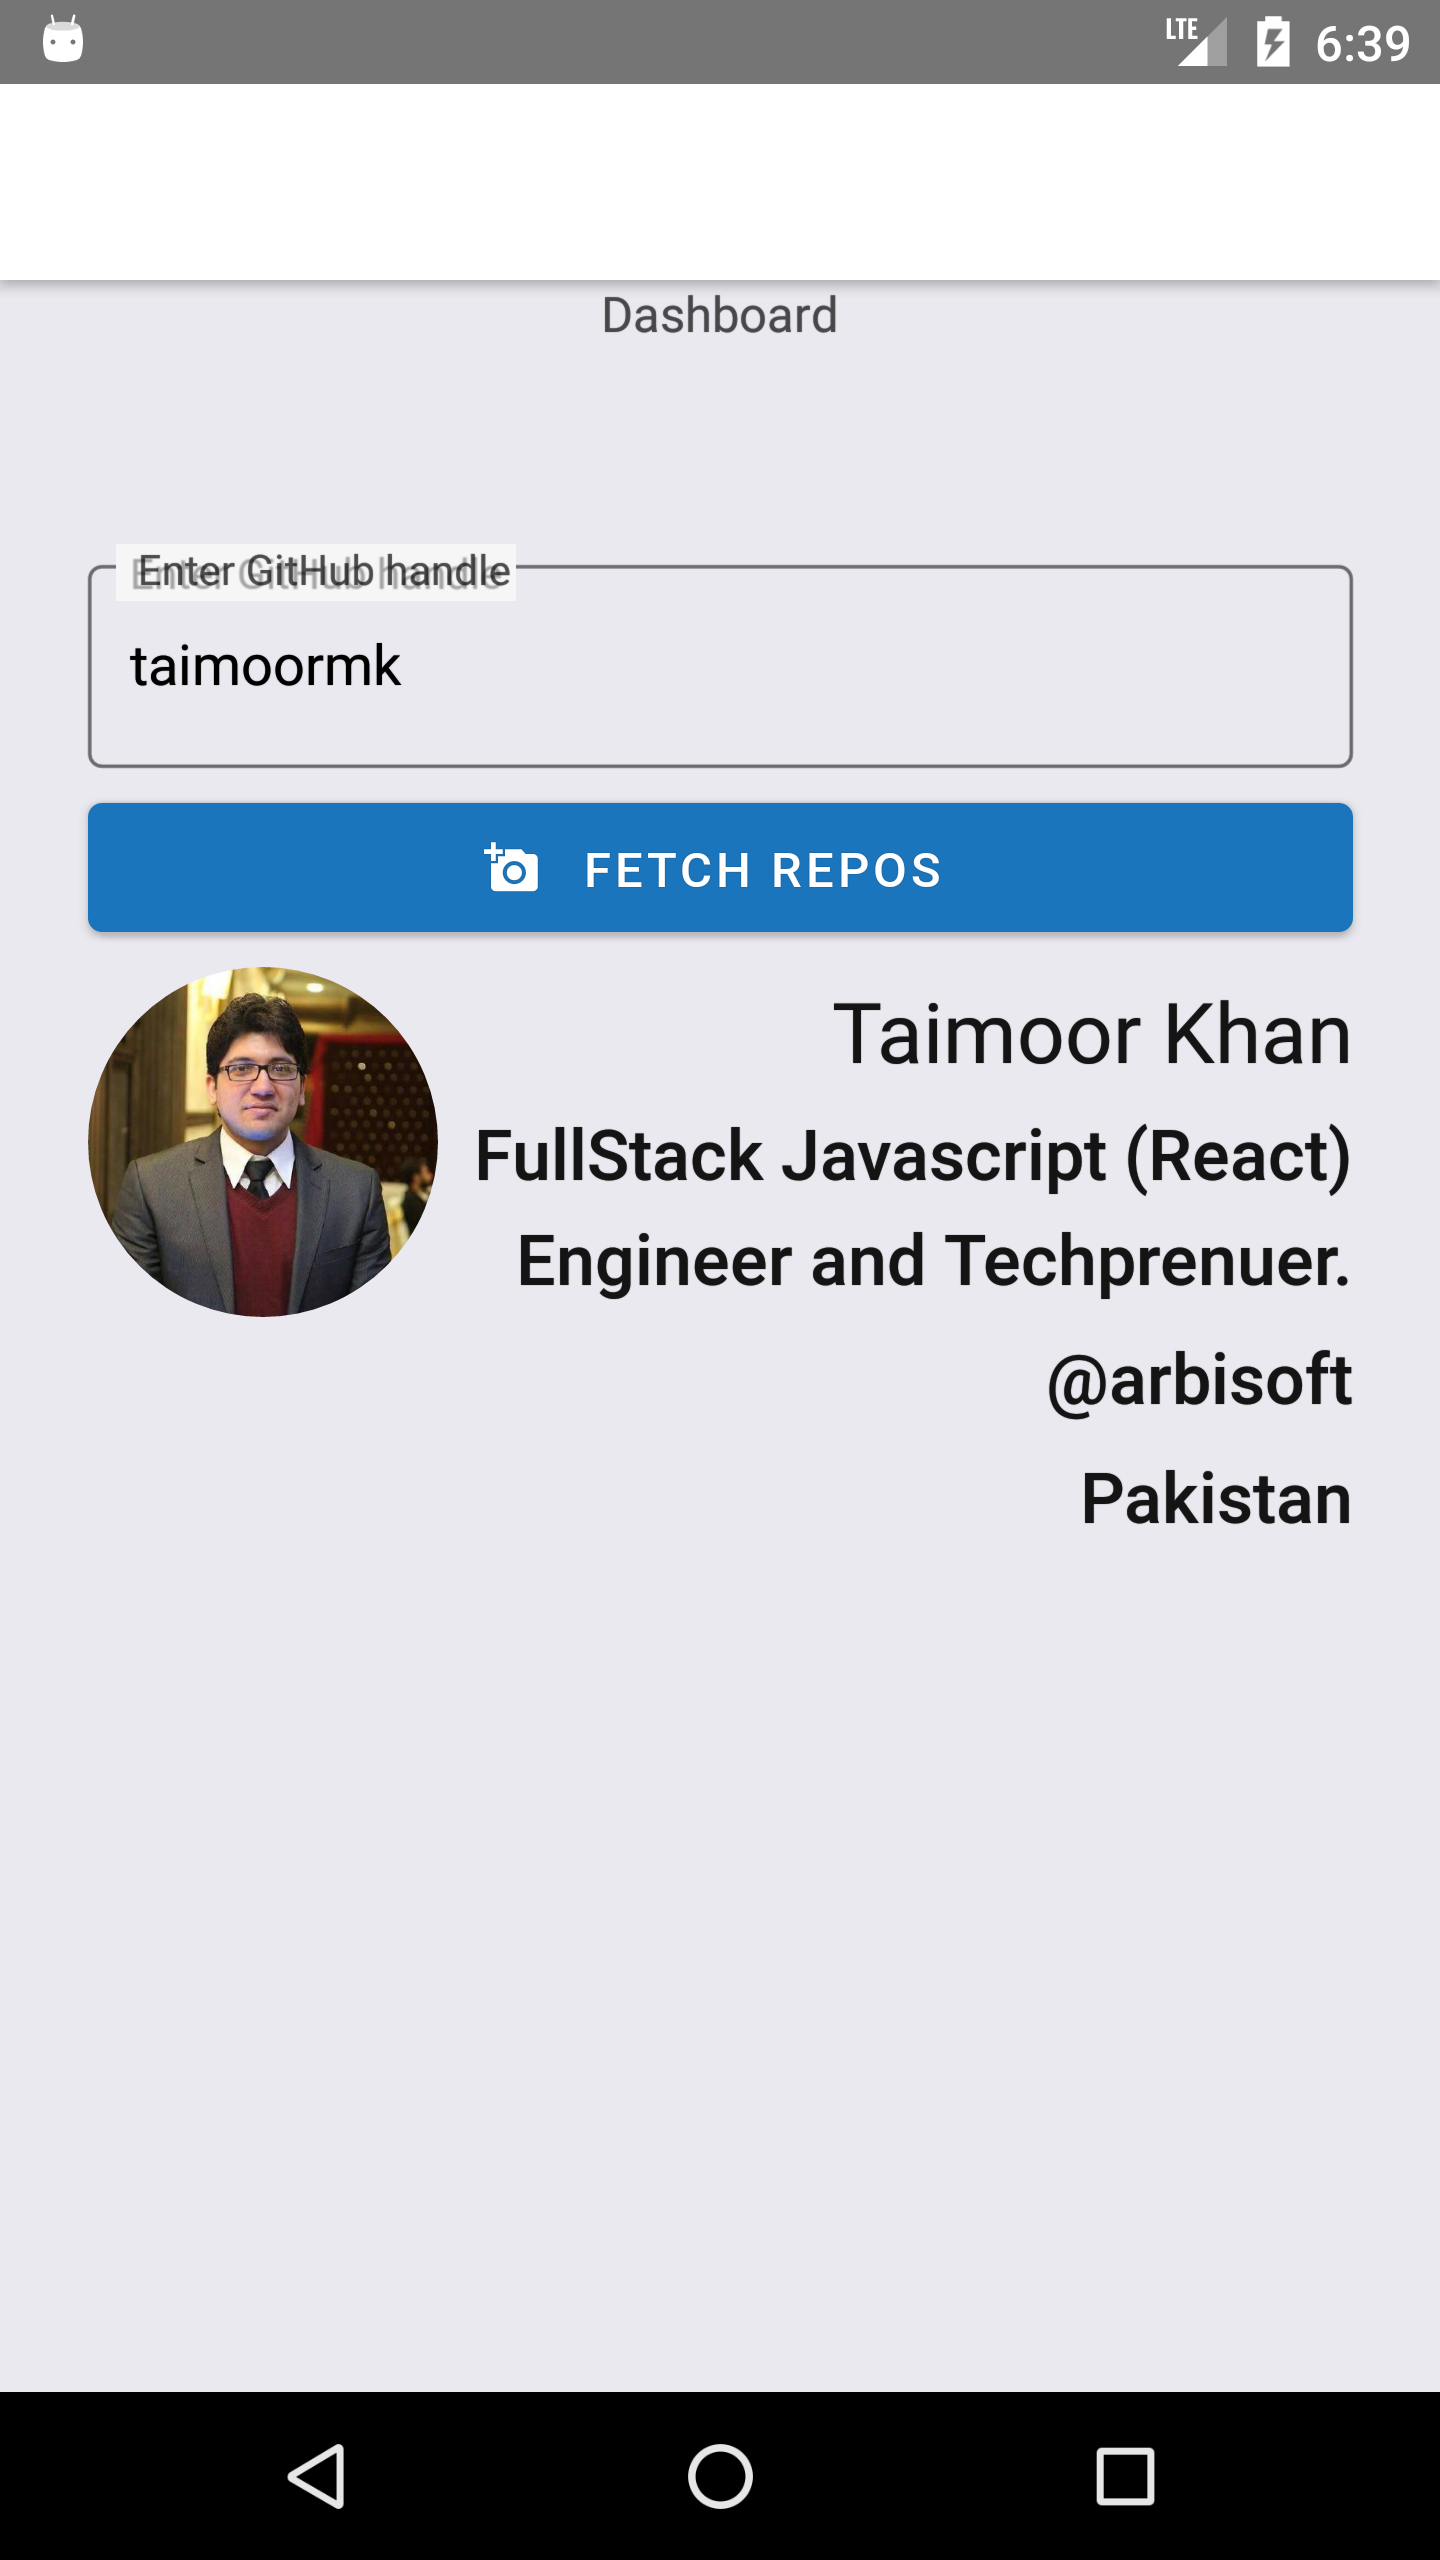
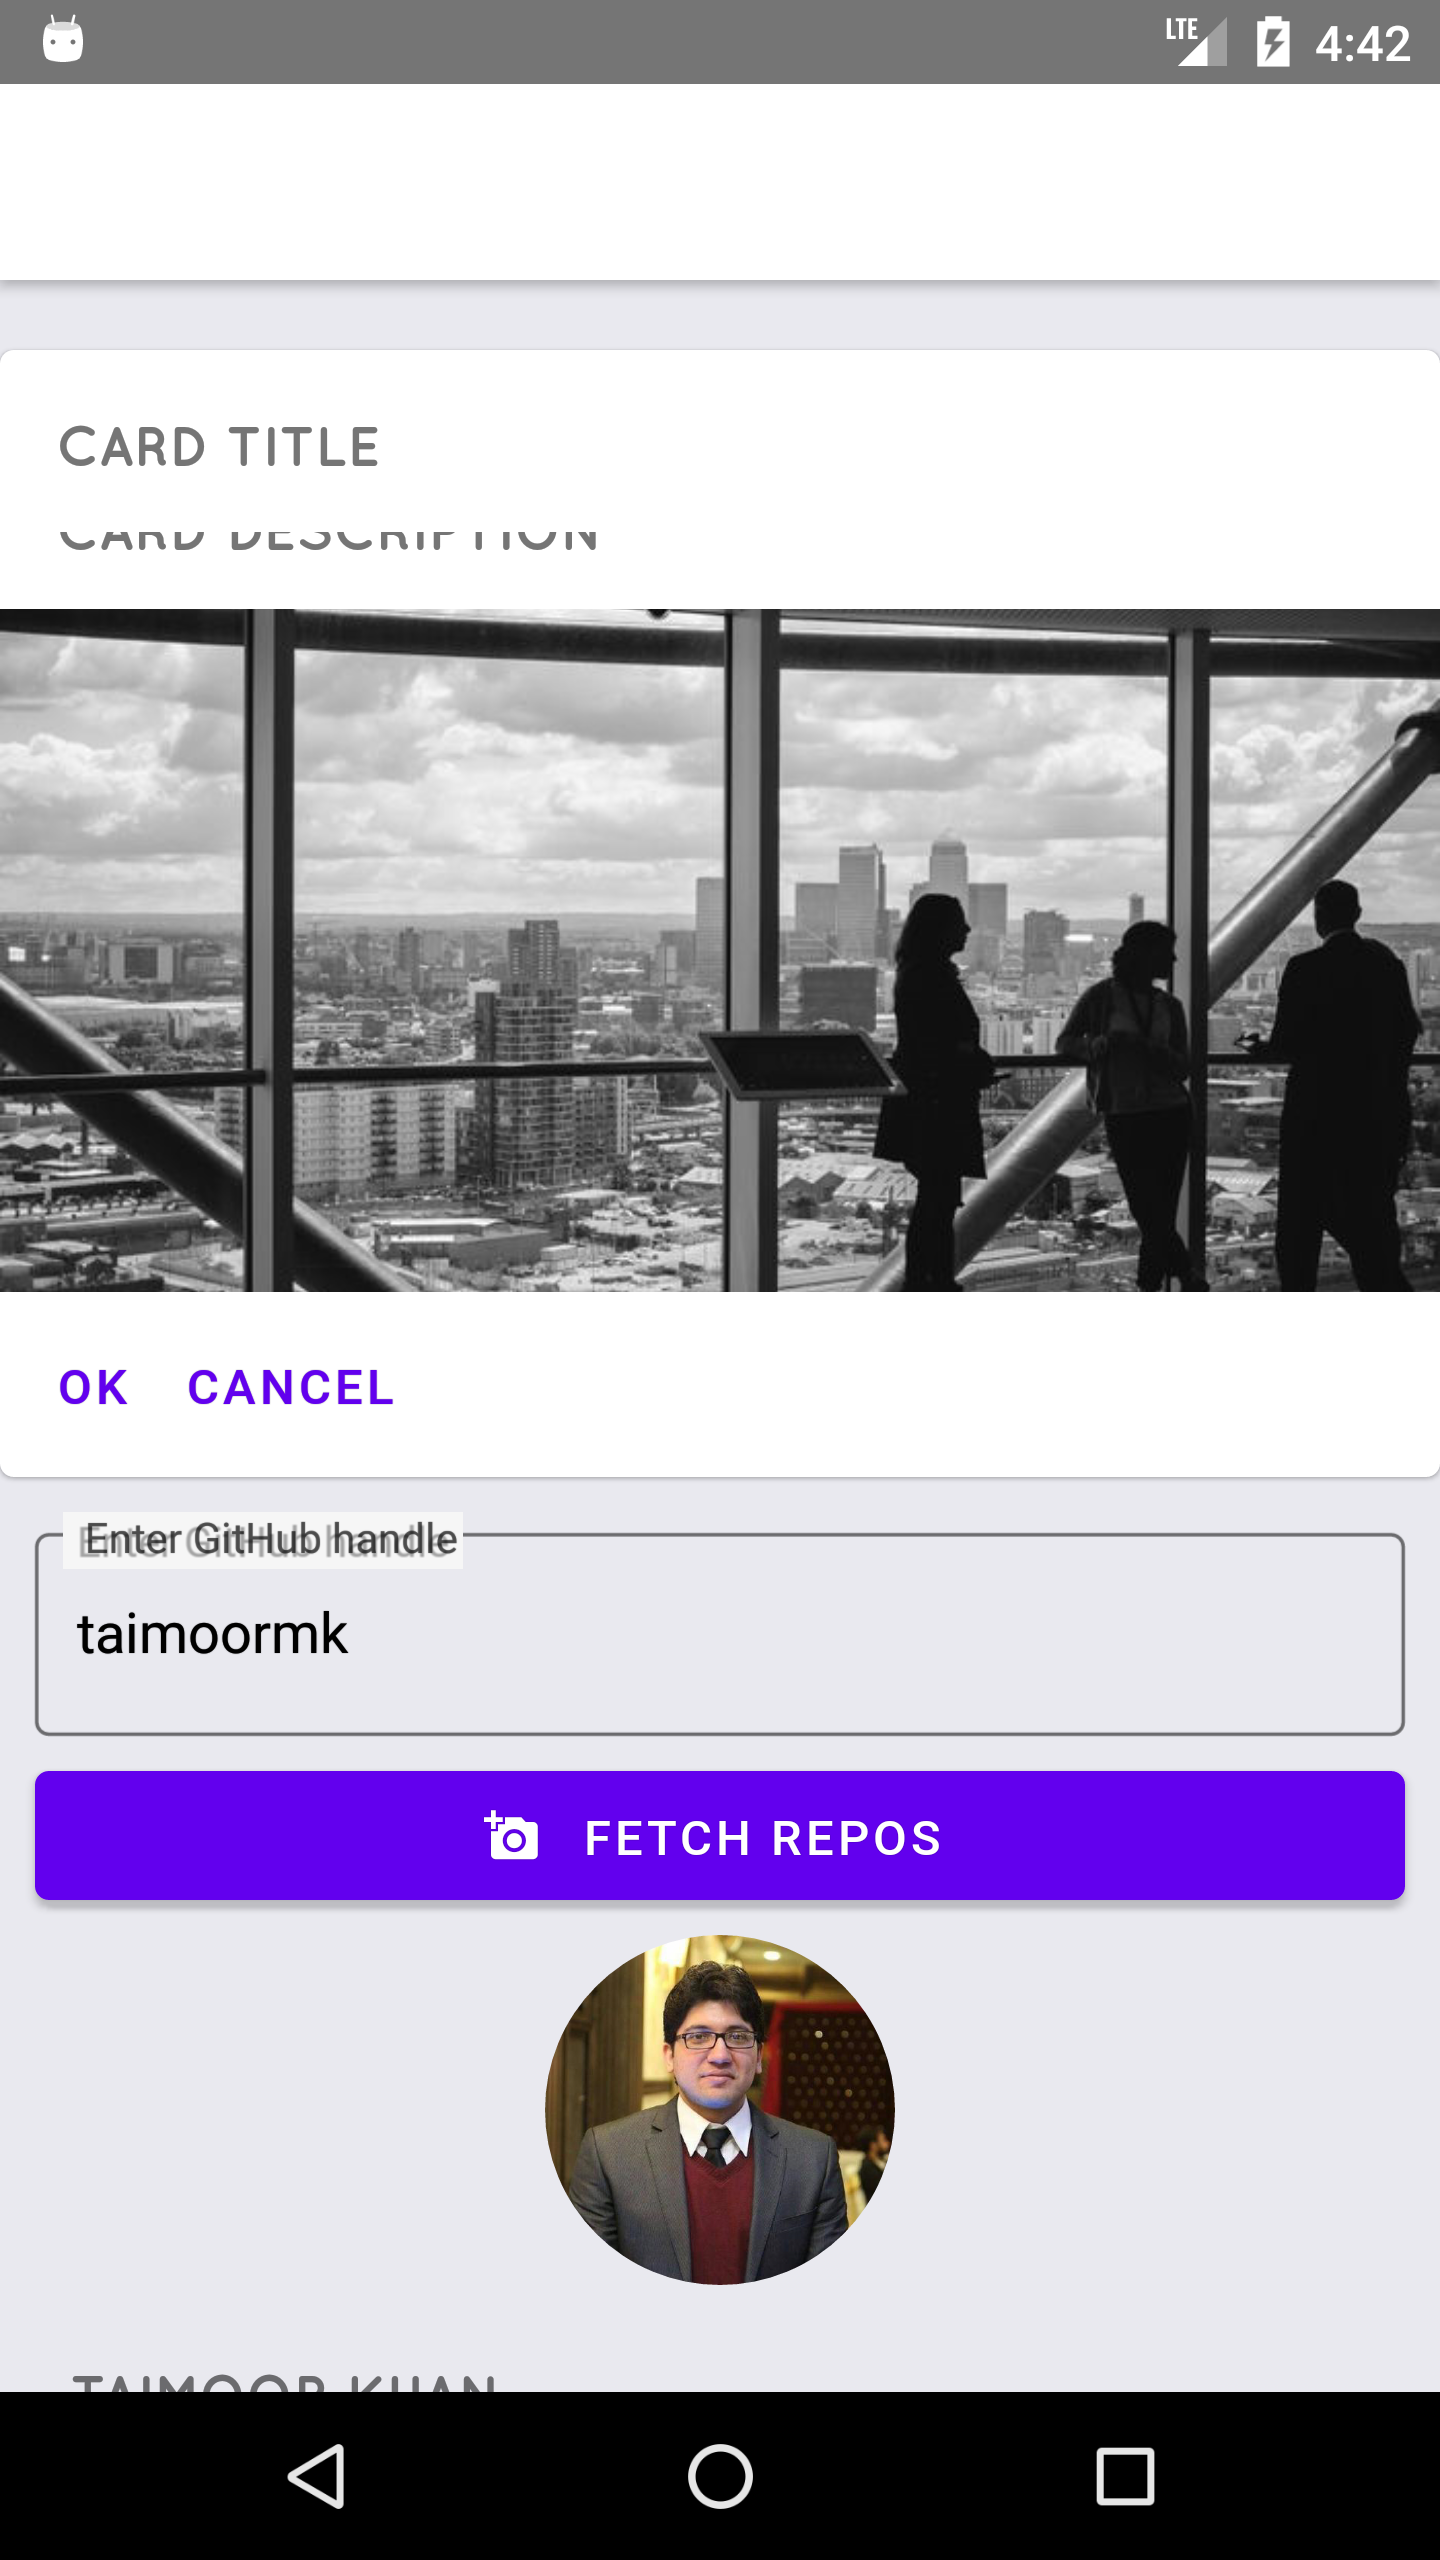
added styledComponents

diff --git a/src/containers/Dashboard/index.js b/src/containers/Dashboard/index.js
@@ -8,15 +8,21 @@
 import React, { Component, Fragment } from "react";
 import { string, func } from "prop-types";
 import { connect } from "react-redux";
-import { View, Text, Image } from "react-native";
-import { TextInput, Button, Headline, Title } from "react-native-paper";
+import { ScrollView } from "react-native";
 
 // ########## Import Containers Here ##########
 
 // ########## Import Components Here ##########
+import { FlexContainerView, ContainerView, H1Text } from "./styles";
+import AppCard from "../../components/AppCard";
+import AppTitle from "../../components/AppTitle";
+import AppHeadline from "../../components/AppHeadline";
+import AppParagraph from "../../components/AppParagraph";
+import AppButton from "../../components/AppButton";
+import AppTextInput from "../../components/AppTextInput";
+import AppImage from "../../components/AppImage";
 import styles from "./styles";
 import * as actions from "./actions";
-import { STYLE_CONSTANTS } from "../../config/styles";
 import * as selectors from "./selectors";
 
 class Dashboard extends Component {
@@ -35,44 +41,49 @@ class Dashboard extends Component {
     const { name, bio, company, location, avatarUrl } = this.props;
     return (
       <Fragment>
-        <View style={styles.container}>
-          <View style={styles.textWrapper}>
-            <Text style={styles.heading}>Dashboard</Text>
-          </View>
-          <View style={styles.form}>
-            <TextInput
+        <ScrollView>
+          <H1Text>Dashboard</H1Text>
+          <AppCard>
+            <AppCard.Content>
+              <AppTitle>Card Title</AppTitle>
+              <AppParagraph>Card Description</AppParagraph>
+              <AppCard.Cover source={{ uri: "https://picsum.photos/700" }} />
+              <AppCard.Actions>
+                <AppButton>Ok</AppButton>
+                <AppButton>Cancel</AppButton>
+              </AppCard.Actions>
+            </AppCard.Content>
+          </AppCard>
+          <ContainerView>
+            <AppTextInput
               mode="outlined"
               label="Enter GitHub handle"
               autoCapitalize="none"
               value={textInput}
-              style={styles.input}
               onChangeText={val => this.setState({ textInput: val })}
             />
-            <Button
+            <AppvButton
               icon="add-a-photo"
               mode="contained"
-              color={STYLE_CONSTANTS.COLORS.SECONDARY}
               onPress={this.onPressHandler}
             >
               Fetch Repos
-            </Button>
-            {
-              name && (
-                <View style={styles.userDataContainer}>
-                  <View style={styles.avatarContainer}>
-                    <Image style={styles.userAvatar} source={{ uri: avatarUrl }} />
-                  </View>
-                  <View style={styles.userContainer}>
-                    <Headline style={styles.userData}>{name}</Headline>
-                    <Title style={styles.userData}>{bio}</Title>
-                    <Title style={styles.userData}>{company}</Title>
-                    <Title style={styles.userData}>{location}</Title>
-                  </View>
-                </View>
-              )
-            }
-          </View>
-        </View>
+            </AppvButton>
+            {name && (
+              <FlexContainerView>
+                <ContainerView>
+                  <AppImage source={{ uri: avatarUrl }} />
+                </ContainerView>
+                <ContainerView>
+                  <AppHeadline>{name}</AppHeadline>
+                  <AppTitle>{bio}</AppTitle>
+                  <AppTitle>{company}</AppTitle>
+                  <AppTitle>{location}</AppTitle>
+                </ContainerView>
+              </FlexContainerView>
+            )}
+          </ContainerView>
+        </ScrollView>
       </Fragment>
     );
   }
@@ -84,36 +95,37 @@ Dashboard.propTypes = {
   company: string.isRequired,
   location: string.isRequired,
   avatarUrl: string.isRequired,
-  dashboardAttempt: func.isRequired,
-}
+  dashboardAttempt: func.isRequired
+};
 
 const mapStateToProps = state => {
-    if (state.dashboardReducer.data) {
+  if (state.dashboardReducer.data) {
     return {
       name: selectors.getUserName(state),
       bio: selectors.getUserBio(state),
       company: selectors.getUserCompany(state),
       location: selectors.getUserLocation(state),
-      avatarUrl: selectors.getUserAvatarUrl(state),
-    }
+      avatarUrl: selectors.getUserAvatarUrl(state)
+    };
   } else {
     return {
       name: null,
       bio: null,
       company: null,
       location: null,
-      avatarUrl: null,
-    }
+      avatarUrl: null
+    };
   }
 };
 
 const mapDispatchToProps = dispatch => {
   return {
-    dashboardAttempt: username => dispatch(actions.dashboardAttemptAction(username))
+    dashboardAttempt: username =>
+      dispatch(actions.dashboardAttemptAction(username))
   };
-}
+};
 
 export default connect(
   mapStateToProps,
-  mapDispatchToProps,
+  mapDispatchToProps
 )(Dashboard);

diff --git a/src/containers/Dashboard/styles.js b/src/containers/Dashboard/styles.js
@@ -5,48 +5,25 @@
 */
 
 // ########## Import Dependencies Here ##########
-import { StyleSheet } from "react-native";
+import styled from "styled-components";
 
-import { STYLE_CONSTANTS, width } from "../../config/styles";
+import { STYLE_CONSTANTS } from "../../config/styles";
 
-const styles = StyleSheet.create({
-  container: {
-    flex: 1,
-    alignItems: "center"
-  },
-  textWrapper: {
-    flex: 1,
-  },
-  headering: STYLE_CONSTANTS.HEADER,
-  form: {
-    flex: 7,
-    width: width - 50,
-  },
-  input: {
-    color: STYLE_CONSTANTS.COLORS.SECONDARY,
-    marginBottom: STYLE_CONSTANTS.SPACER.marginBottom,
-  },
-  userDataContainer: {
-    flex: 1,
-    flexDirection: 'row',
-    marginTop: STYLE_CONSTANTS.SPACER.marginTop,
-    marginBottom: STYLE_CONSTANTS.SPACER.marginBottom,
-  },
-  avatarContainer: {
-    flex: 1,    
-  },
-  userAvatar: {
-    width: 100,
-    height: 100,
-    borderRadius: 50,
-  },
-  userContainer: {
-    flex: 3
-  },
-  userData: STYLE_CONSTANTS.H1,
-  userData: {
-    textAlign: 'right',
-  }
-});
+export const ContainerView = styled.View`
+  padding: 10px;
+`;
 
-export default styles;
+export const FlexContainerView = styled.View`
+  display: flex;
+  flex-direction: column;
+  align-items: center;
+`;
+
+export const H1Text = styled.Text`
+  font-family: ${STYLE_CONSTANTS.H1.fontFamily};
+  font-size: ${STYLE_CONSTANTS.H1.fontSize};
+  color: ${STYLE_CONSTANTS.H1.color};
+  text-transform: ${STYLE_CONSTANTS.H1.textTransform};
+  margin-top: 10;
+  margin-bottom: 10;
+`;

diff --git a/src/components/AppParagraph/index.js b/src/components/AppParagraph/index.js
@@ -1,0 +1,19 @@
+/*
+    Author: Taimoor Khan
+    GitHub: https://github.com/Taimoormk
+    Email: taimoor.m.k AT LIVE.COM 
+ */
+
+import styled from "styled-components";
+import { Paragraph } from "react-native-paper";
+
+import { STYLE_CONSTANTS, width } from "../../config/styles";
+
+const AppParagraph = styled(Paragraph)`
+  font-family: ${STYLE_CONSTANTS.H1.fontFamily};
+  font-size: ${STYLE_CONSTANTS.H1.fontSize};
+  color: ${STYLE_CONSTANTS.H1.color};
+  text-transform: ${STYLE_CONSTANTS.H1.textTransform};
+`;
+
+export default AppParagraph;

diff --git a/src/components/AppHeadline/index.js b/src/components/AppHeadline/index.js
@@ -1,0 +1,19 @@
+/*
+    Author: Taimoor Khan
+    GitHub: https://github.com/Taimoormk
+    Email: taimoor.m.k AT LIVE.COM 
+ */
+
+import styled from "styled-components";
+import { Headline } from "react-native-paper";
+
+import { STYLE_CONSTANTS, width } from "../../config/styles";
+
+const AppHeadline = styled(Headline)`
+  font-family: ${STYLE_CONSTANTS.H1.fontFamily};
+  font-size: ${STYLE_CONSTANTS.H1.fontSize};
+  color: ${STYLE_CONSTANTS.H1.color};
+  text-transform: ${STYLE_CONSTANTS.H1.textTransform};
+`;
+
+export default AppHeadline;

diff --git a/src/components/AppTitle/index.js b/src/components/AppTitle/index.js
@@ -1,0 +1,19 @@
+/*
+    Author: Taimoor Khan
+    GitHub: https://github.com/Taimoormk
+    Email: taimoor.m.k AT LIVE.COM 
+ */
+
+import styled from "styled-components";
+import { Title } from "react-native-paper";
+
+import { STYLE_CONSTANTS, width } from "../../config/styles";
+
+const AppTitle = styled(Title)`
+  font-family: ${STYLE_CONSTANTS.H1.fontFamily};
+  font-size: ${STYLE_CONSTANTS.H1.fontSize};
+  color: ${STYLE_CONSTANTS.H1.color};
+  text-transform: ${STYLE_CONSTANTS.H1.textTransform};
+`;
+
+export default AppTitle;

diff --git a/src/components/AppTextInput/index.js b/src/components/AppTextInput/index.js
@@ -1,0 +1,17 @@
+/*
+    Author: Taimoor Khan
+    GitHub: https://github.com/Taimoormk
+    Email: taimoor.m.k AT LIVE.COM 
+ */
+
+import styled from "styled-components";
+import { TextInput } from "react-native-paper";
+
+import { STYLE_CONSTANTS, width } from "../../config/styles";
+
+const AppTextInput = styled(TextInput)`
+  color: ${STYLE_CONSTANTS.COLORS.SECONDARY};
+  margin-bottom: ${STYLE_CONSTANTS.SPACER.marginBottom};
+`;
+
+export default AppTextInput;

diff --git a/src/components/AppButton/index.js b/src/components/AppButton/index.js
@@ -1,0 +1,16 @@
+/*
+    Author: Taimoor Khan
+    GitHub: https://github.com/Taimoormk
+    Email: taimoor.m.k AT LIVE.COM 
+ */
+
+import styled from "styled-components";
+import { Button } from "react-native-paper";
+
+import { STYLE_CONSTANTS, width } from "../../config/styles";
+
+const AppButton = styled(Button)`
+  color: ${STYLE_CONSTANTS.COLORS.SECONDARY};
+`;
+
+export default AppButton;

diff --git a/src/components/AppImage/index.js b/src/components/AppImage/index.js
@@ -1,0 +1,16 @@
+/*
+    Author: Taimoor Khan
+    GitHub: https://github.com/Taimoormk
+    Email: taimoor.m.k AT LIVE.COM 
+ */
+
+import styled from "styled-components";
+import { Image } from "react-native";
+
+const AppImage = styled(Image)`
+  width: 100;
+  height: 100;
+  border-radius: 50;
+`;
+
+export default AppImage;

diff --git a/src/components/AppCard/index.js b/src/components/AppCard/index.js
@@ -1,0 +1,12 @@
+/*
+    Author: Taimoor Khan
+    GitHub: https://github.com/Taimoormk
+    Email: taimoor.m.k AT LIVE.COM 
+ */
+
+import styled from "styled-components";
+import { Card } from "react-native-paper";
+
+const AppCard = styled(Card)``;
+
+export default AppCard;

diff --git a/src/config/styles.js b/src/config/styles.js
@@ -5,7 +5,7 @@
 */
 
 // ########## Import Dependencies Here ##########
-import { StyleSheet, Dimensions } from 'react-native';
+import { Dimensions } from 'react-native';
 
 export const { width, height } = Dimensions.get('window');
 
